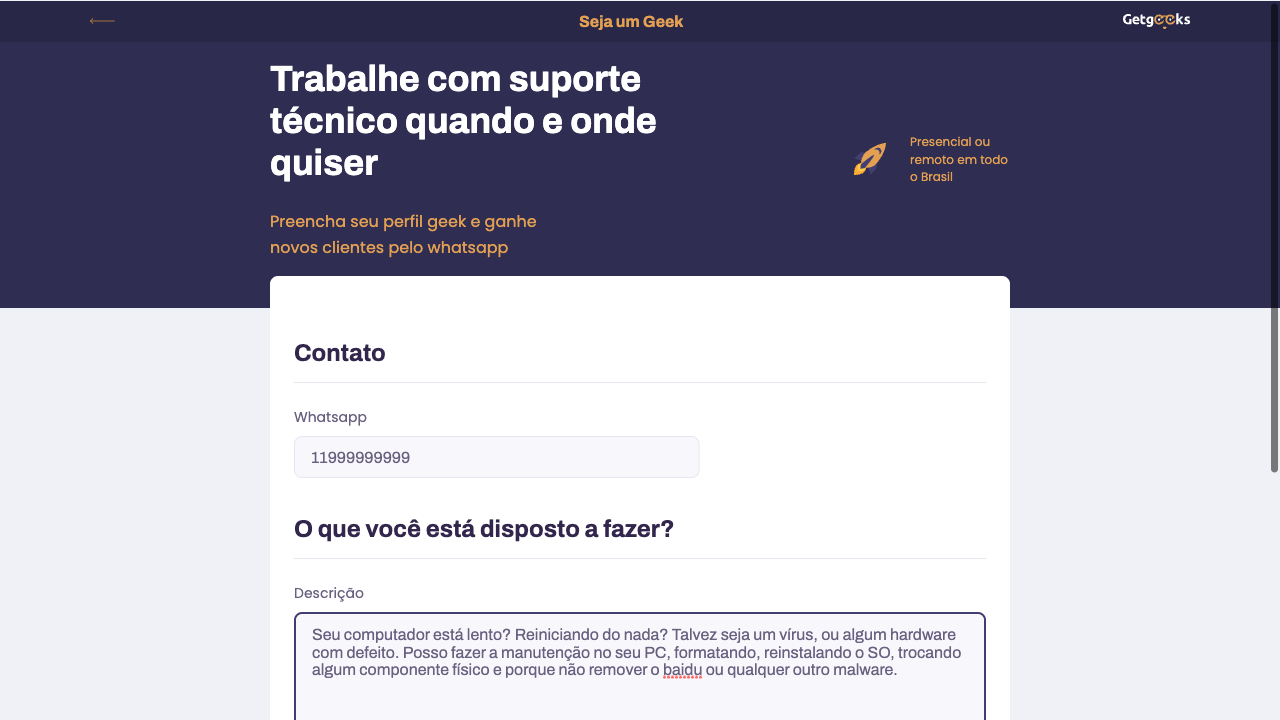
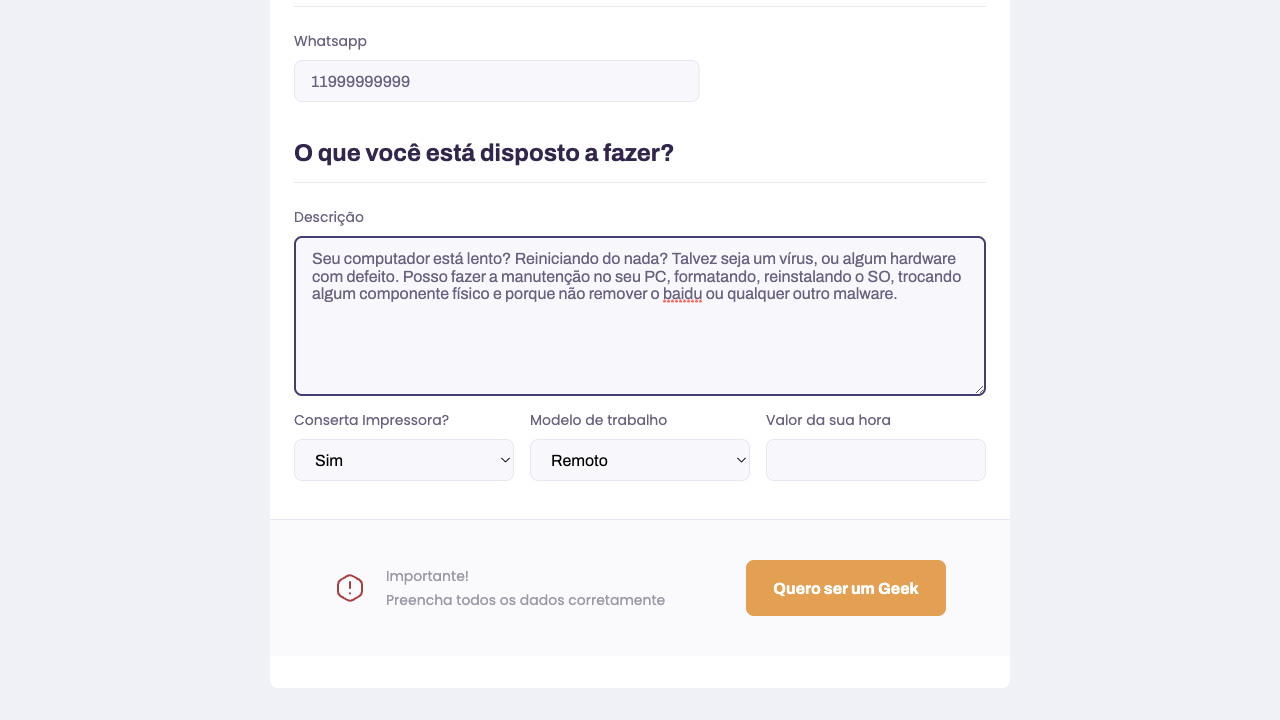
adding select type elements selection by text

diff --git a/logs/log.html b/logs/log.html
@@ -1803,13 +1803,13 @@ function stopPropagation(event) {
 window.output = {};
 </script>
 <script type="text/javascript">
-window.output["suite"] = [1,2,3,4,[],[1,0,18867],[],[[5,0,0,[],[1,799,18029],[[1,6,7,0,0,0,0,0,[1,800,4010],[[0,8,9,0,10,11,0,12,[1,800,2457],[[800,2,13],[3256,2,14]]],[0,15,9,0,16,17,0,12,[1,3257,1553],[[4810,2,18],[4810,2,19]]]]],[0,20,21,0,0,0,22,0,[1,4811,0],[[4811,2,23]]],[0,24,25,0,0,22,0,0,[1,4812,2342],[[0,26,27,0,0,0,0,0,[1,4812,682],[[0,28,9,0,29,17,0,12,[1,4812,647],[[5458,2,30]]],[0,31,9,0,32,33,0,34,[1,5459,35],[[5494,2,35]]]]],[0,36,27,0,0,22,0,0,[1,5494,1085],[[0,37,9,0,38,39,0,40,[1,5494,532],[[5495,2,41]]],[0,37,9,0,38,42,0,40,[1,6026,553],[[6027,2,43]]]]],[0,44,27,0,0,0,0,0,[1,6579,558],[[0,45,9,0,46,47,0,40,[1,6580,556],[]]]],[0,48,27,0,0,22,0,0,[1,7137,17],[[0,49,50,0,51,52,53,0,[1,7137,1],[[7138,2,54]]],[0,49,50,0,51,55,56,0,[1,7138,0],[[7138,2,57]]],[0,31,9,0,32,58,0,34,[1,7138,5],[[7143,2,59]]],[0,60,9,0,61,62,0,63,[1,7143,10],[]]]]]],[0,64,0,0,0,0,0,0,[1,7154,545],[[0,45,9,0,46,65,0,40,[1,7154,535],[]],[0,31,9,0,32,66,0,34,[1,7690,9],[[7699,2,67]]]]],[0,68,0,0,0,69,0,0,[1,7699,1042],[[0,37,9,0,38,70,0,40,[1,7700,518],[[7700,2,71]]],[0,37,9,0,38,72,0,40,[1,8218,522],[[8219,2,73]]]]],[0,74,50,0,75,76,0,0,[1,8741,10001],[[18742,2,77]]],[2,78,7,0,0,0,0,0,[1,18742,86],[[0,79,9,0,80,0,0,81,[1,18743,85],[[18827,2,82]]]]]]]],[],[1,1,0,0]];
+window.output["suite"] = [1,2,3,4,[],[1,0,18613],[],[[5,0,0,[],[1,544,18008],[[1,6,7,0,0,0,0,0,[1,545,1971],[[0,8,9,0,10,11,0,12,[1,545,575],[[546,2,13],[1120,2,14]]],[0,15,9,0,16,17,0,12,[1,1121,1395],[[2516,2,18],[2516,2,19]]]]],[0,20,21,0,0,0,22,0,[1,2517,1],[[2517,2,23]]],[0,24,25,0,0,22,0,0,[1,2518,2315],[[0,26,27,0,0,0,0,0,[1,2519,635],[[0,28,9,0,29,17,0,12,[1,2519,597],[[3116,2,30]]],[0,31,9,0,32,33,0,34,[1,3116,38],[[3154,2,35]]]]],[0,36,27,0,0,22,0,0,[1,3154,1086],[[0,37,9,0,38,39,0,40,[1,3154,528],[[3154,2,41]]],[0,37,9,0,38,42,0,40,[1,3683,557],[[3683,2,43]]]]],[0,44,27,0,0,0,0,0,[1,4240,576],[[0,45,9,0,46,47,0,40,[1,4241,574],[]]]],[0,48,27,0,0,22,0,0,[1,4816,17],[[0,49,50,0,51,52,53,0,[1,4816,1],[[4817,2,54]]],[0,49,50,0,51,55,56,0,[1,4817,0],[[4817,2,57]]],[0,31,9,0,32,58,0,34,[1,4817,5],[[4822,2,59]]],[0,60,9,0,61,62,0,63,[1,4823,10],[]]]]]],[0,64,0,0,0,0,0,0,[1,4833,540],[[0,45,9,0,46,65,0,40,[1,4834,532],[]],[0,31,9,0,32,66,0,34,[1,5366,6],[[5372,2,67]]]]],[0,68,0,0,0,69,0,0,[1,5373,3081],[[0,37,9,0,38,70,0,40,[1,5373,511],[[5373,2,71]]],[0,37,9,0,38,72,0,40,[1,5884,520],[[5885,2,73]]],[0,74,9,0,75,76,0,40,[1,6404,1027],[]],[0,74,9,0,75,77,0,40,[1,7431,1023],[]]]],[0,78,50,0,79,80,0,0,[1,8455,10001],[[18455,2,81]]],[2,82,7,0,0,0,0,0,[1,18457,94],[[0,83,9,0,84,0,0,85,[1,18457,94],[[18551,2,86]]]]]]]],[],[1,1,0,0]];
 </script>
 <script type="text/javascript">
 window.output["strings"] = [];
 </script>
 <script type="text/javascript">
[2 lines of base64/hex data omitted]
 </script>
 <script type="text/javascript">
 window.output["stats"] = [[{"elapsed":"00:00:18","fail":0,"label":"All Tests","pass":1,"skip":0}],[],[{"elapsed":"00:00:19","fail":0,"id":"s1","label":"BeGeek","name":"BeGeek","pass":1,"skip":0}]];
@@ -1818,10 +1818,10 @@ window.output["stats"] = [[{"elapsed":"00:00:18","fail":0,"label":"All Tests","p
 window.output["errors"] = [];
 </script>
 <script type="text/javascript">
-window.output["baseMillis"] = 1676728632679;
+window.output["baseMillis"] = 1676729936593;
 </script>
 <script type="text/javascript">
-window.output["generated"] = 18871;
+window.output["generated"] = 18618;
 </script>
 <script type="text/javascript">
 window.output["expand_keywords"] = null;

diff --git a/logs/report.html b/logs/report.html
@@ -1629,7 +1629,7 @@ storage = function () {
 window.output = {};
 </script>
 <script type="text/javascript">
-window.output["suite"] = [1,2,3,4,[],[1,0,18867],[],[[5,0,0,[],[1,799,18029],[]]],[],[1,1,0,0]];
+window.output["suite"] = [1,2,3,4,[],[1,0,18613],[],[[5,0,0,[],[1,544,18008],[]]],[],[1,1,0,0]];
 </script>
 <script type="text/javascript">
 window.output["strings"] = [];
@@ -1641,10 +1641,10 @@ window.output["strings"] = window.output["strings"].concat(["*","*BeGeek","*/Use
 window.output["stats"] = [[{"elapsed":"00:00:18","fail":0,"label":"All Tests","pass":1,"skip":0}],[],[{"elapsed":"00:00:19","fail":0,"id":"s1","label":"BeGeek","name":"BeGeek","pass":1,"skip":0}]];
 </script>
 <script type="text/javascript">
-window.output["baseMillis"] = 1676728632679;
+window.output["baseMillis"] = 1676729936593;
 </script>
 <script type="text/javascript">
-window.output["generated"] = 18871;
+window.output["generated"] = 18618;
 </script>
 <script type="text/javascript">
 window.output["expand_keywords"] = null;

diff --git a/resources/factories/Users.py b/resources/factories/Users.py
@@ -49,9 +49,9 @@ def factory_user_be_geek():
         'password': 'pwd123',
         'geek_profile': {
             'whats': '11999999999',
-            'desc': 'Seu computador está lento? Reiniciando do nada? Talvez seja um vírus, ou algum hardware com defeito. Posso fazer a manutenção no seu PC, formatando, reinstalando o SO, trocando algum componente físico e porque não remover o baidú ou qualquer outro malware.',
+            'desc': 'Seu computador está lento? Reiniciando do nada? Talvez seja um vírus, ou algum hardware com defeito. Posso fazer a manutenção no seu PC, formatando, reinstalando o SO, trocando algum componente físico e porque não remover o baidu ou qualquer outro malware.',
             'printer_repair': 'Sim',
-            'work': 'Remote',
+            'work': 'Remoto',
             'cost': '100'
         }
     }

diff --git a/README.md b/README.md
@@ -419,8 +419,6 @@ Incorrect Email
 
 Do Login variable is added in order to facilitate login functionality. The login helper cannot be used inside login test suite because we're validating the login process step by step, then we'll need separated steps to test all functionality coverage.
 
-## Filling type input elements
-
 For the geek form we'll need to fill 5 different fields, in order to do it properly we'll update our test dough generator factory_user_be_geek by adding the sub-dictionary geek_profile inside Users.py:
 
 ```
@@ -451,7 +449,25 @@ Description's field HTML:
 
 **Note:** here the id selector "desc" is used.
 
+## Filling type input elements
+
+```
+Fill Geek Form
+    [Arguments]    ${geek_profile}
+
+    Fill Text    id=whatsapp    ${geek_profile}[whats]
+    Fill Text    id=desc    ${geek_profile}[desc]
+```
+
 ## Filling type select elements
+
+```
+Fill Geek Form
+    [Arguments]    ${geek_profile}
+
+    Select Options By    id=printer_repair    value    ${geek_profile}[printer_repair]
+    Select Options By    id=work    value    ${geek_profile}[work]
+```
 
 ---
 
